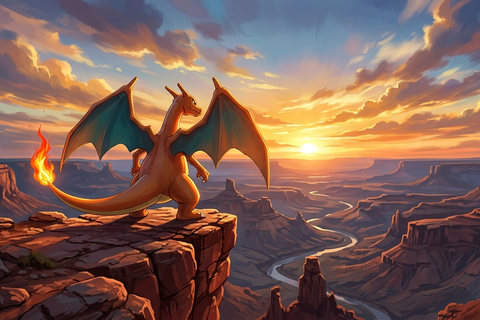
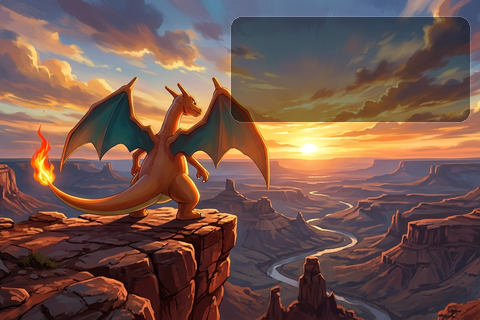
5 charizard

Changed region(s): [[0.4688, 0.0312, 1.0, 0.4062]]

diff --git a/library/clock/clock_screen.py b/library/clock/clock_screen.py
@@ -51,10 +51,85 @@ class ClockScreen:
     def __init__(self):
         self._last_time_str = None
         self._last_date_str = None
+        self._frame_counter = 0
+        self._current_phase = None
+        self._current_bg_name = "background.png"
 
     def reset_cache(self):
         self._last_time_str = None
         self._last_date_str = None
+        self._frame_counter = 0
+        self._current_phase = None
+        self._current_bg_name = "background.png"
+
+    def get_current_phase(self) -> Tuple[str, str, Tuple[int, int, int]]:
+        day_phases = config.CLOCK_THEME_DATA.get("day_phases", {})
+        if not day_phases or not day_phases.get("ENABLED", False):
+            return "default", "background.png", (255, 90, 0)
+
+        now_hour = datetime.datetime.now().hour
+        theme_path = config.CLOCK_THEME_DATA.get("PATH", "")
+
+        matched_phase = None
+        matched_cfg = {}
+        # Iterate over configured phases in day_phases to check START_HOUR and END_HOUR
+        for p_name, p_cfg in day_phases.items():
+            if not isinstance(p_cfg, dict):
+                continue
+            s_hour = p_cfg.get("START_HOUR")
+            e_hour = p_cfg.get("END_HOUR")
+            if s_hour is not None and e_hour is not None:
+                if s_hour < e_hour:
+                    if s_hour <= now_hour < e_hour:
+                        matched_phase = p_name
+                        matched_cfg = p_cfg
+                        break
+                else:  # Overnight span (e.g. 22 to 6)
+                    if now_hour >= s_hour or now_hour < e_hour:
+                        matched_phase = p_name
+                        matched_cfg = p_cfg
+                        break
+
+        # Fallback to standard defaults if not matched via custom hours
+        if not matched_phase:
+            if 6 <= now_hour < 9:
+                matched_phase = "ALBA"
+            elif 9 <= now_hour < 16:
+                matched_phase = "GIORNO"
+            elif 16 <= now_hour < 19:
+                matched_phase = "POMERIGGIO"
+            elif 19 <= now_hour < 22:
+                matched_phase = "SERA"
+            else:
+                matched_phase = "NOTTE"
+            matched_cfg = day_phases.get(matched_phase, {})
+
+        default_images = {
+            "ALBA": "bg_alba.png",
+            "GIORNO": "bg_giorno.png",
+            "POMERIGGIO": "bg_pomeriggio.png",
+            "SERA": "bg_sera.png",
+            "NOTTE": "bg_notte.png"
+        }
+        default_leds = {
+            "ALBA": (255, 140, 90),
+            "GIORNO": (255, 210, 110),
+            "POMERIGGIO": (255, 120, 20),
+            "SERA": (255, 80, 0),
+            "NOTTE": (50, 100, 240)
+        }
+
+        bg_name = matched_cfg.get("IMAGE", default_images.get(matched_phase, "background.png"))
+        led_color = matched_cfg.get("RGB_LED", default_leds.get(matched_phase, (255, 90, 0)))
+        if isinstance(led_color, str):
+            try:
+                led_color = tuple(int(x.strip()) for x in led_color.split(','))
+            except:
+                led_color = default_leds.get(matched_phase, (255, 90, 0))
+
+        if os.path.exists(os.path.join(theme_path, bg_name)):
+            return matched_phase, bg_name, led_color
+        return matched_phase, "background.png", led_color
 
     def display_static_elements(self):
         if not config.CLOCK_THEME_DATA:
@@ -67,10 +142,22 @@ class ClockScreen:
 
         theme_path = config.CLOCK_THEME_DATA.get("PATH", "")
 
+        phase, bg_name, led_color = self.get_current_phase()
+        self._current_phase = phase
+        self._current_bg_name = bg_name
+
+        try:
+            display.lcd.SetBackplateLedColor(led_color)
+        except Exception:
+            pass
+
         # 1. Static images (Background, etc.)
         static_images = config.CLOCK_THEME_DATA.get("static_images", {})
         for name, img_data in static_images.items():
-            img_path = os.path.join(theme_path, img_data.get("PATH", ""))
+            if name.upper() == "BACKGROUND":
+                img_path = os.path.join(theme_path, bg_name)
+            else:
+                img_path = os.path.join(theme_path, img_data.get("PATH", "background.png"))
             x, y, w, h = _clamp_coord(
                 img_data.get("X", 0),
                 img_data.get("Y", 0),
@@ -118,6 +205,16 @@ class ClockScreen:
         if force_redraw:
             self.reset_cache()
 
+        phase, bg_name, led_color = self.get_current_phase()
+        if phase != self._current_phase:
+            logger.info(f"ClockScreen: Day phase changed to {phase} ({bg_name})")
+            self._current_phase = phase
+            self._current_bg_name = bg_name
+            self.display_static_elements()
+            force_redraw = True
+
+        theme_path = config.CLOCK_THEME_DATA.get("PATH", "")
+        bg_full_path = os.path.join(theme_path, self._current_bg_name or "background.png")
         layout = config.CLOCK_THEME_DATA.get("clock_layout", {})
         now = datetime.datetime.now()
 
@@ -130,8 +227,8 @@ class ClockScreen:
             if time_str != self._last_time_str or force_redraw:
                 self._last_time_str = time_str
                 tx, ty, tw, th = _clamp_coord(
-                    time_cfg.get("X", 240),
-                    time_cfg.get("Y", 45),
+                    time_cfg.get("X", 350),
+                    time_cfg.get("Y", 25),
                     time_cfg.get("WIDTH", 0),
                     time_cfg.get("HEIGHT", 0),
                 )
@@ -142,10 +239,10 @@ class ClockScreen:
                     width=tw,
                     height=th,
                     font=config.FONTS_DIR + time_cfg.get("FONT", "digital/DIGITAL-7.TTF"),
-                    font_size=time_cfg.get("FONT_SIZE", 64),
-                    font_color=time_cfg.get("FONT_COLOR", (255, 235, 190)),
+                    font_size=time_cfg.get("FONT_SIZE", 62),
+                    font_color=time_cfg.get("FONT_COLOR", (255, 245, 220)),
                     background_color=time_cfg.get("BACKGROUND_COLOR", (0, 0, 0)),
-                    background_image=_get_theme_file_path(time_cfg.get("BACKGROUND_IMAGE", "background.png")),
+                    background_image=bg_full_path,
                     align=time_cfg.get("ALIGN", "center"),
                     anchor=time_cfg.get("ANCHOR", "ma"),
                 )
@@ -162,8 +259,8 @@ class ClockScreen:
             if date_str != self._last_date_str or force_redraw:
                 self._last_date_str = date_str
                 dx, dy, dw, dh = _clamp_coord(
-                    date_cfg.get("X", 240),
-                    date_cfg.get("Y", 125),
+                    date_cfg.get("X", 350),
+                    date_cfg.get("Y", 96),
                     date_cfg.get("WIDTH", 0),
                     date_cfg.get("HEIGHT", 0),
                 )
@@ -173,14 +270,38 @@ class ClockScreen:
                     y=dy,
                     width=dw,
                     height=dh,
-                    font=config.FONTS_DIR + date_cfg.get("FONT", "roboto/Roboto-Medium.ttf"),
-                    font_size=date_cfg.get("FONT_SIZE", 18),
-                    font_color=date_cfg.get("FONT_COLOR", (255, 180, 80)),
+                    font=config.FONTS_DIR + date_cfg.get("FONT", "roboto/Roboto-Bold.ttf"),
+                    font_size=date_cfg.get("FONT_SIZE", 15),
+                    font_color=date_cfg.get("FONT_COLOR", (255, 235, 190)),
                     background_color=date_cfg.get("BACKGROUND_COLOR", (0, 0, 0)),
-                    background_image=_get_theme_file_path(date_cfg.get("BACKGROUND_IMAGE", "background.png")),
+                    background_image=bg_full_path,
                     align=date_cfg.get("ALIGN", "center"),
                     anchor=date_cfg.get("ANCHOR", "ma"),
                 )
+
+        # 3. Animated Flame on Charizard's Tail (optional)
+        flame_cfg = layout.get("FLAME_ANIMATION", {})
+        if flame_cfg.get("SHOW", False):
+            frames_dir = flame_cfg.get("FRAMES_DIR", "flame")
+            num_frames = flame_cfg.get("NUM_FRAMES", 4)
+            if num_frames > 0:
+                frame_idx = self._frame_counter % num_frames
+                self._frame_counter += 1
+                frame_path = os.path.join(config.CLOCK_THEME_DATA.get("PATH", ""), frames_dir, f"flame_{frame_idx}.png")
+                if os.path.exists(frame_path):
+                    fx, fy, fw, fh = _clamp_coord(
+                        flame_cfg.get("X", 26),
+                        flame_cfg.get("Y", 145),
+                        flame_cfg.get("WIDTH", 40),
+                        flame_cfg.get("HEIGHT", 48),
+                    )
+                    display.lcd.DisplayBitmap(
+                        bitmap_path=frame_path,
+                        x=fx,
+                        y=fy,
+                        width=fw,
+                        height=fh,
+                    )
 
 
 clock_screen = ClockScreen()

diff --git a/scratch/create_charizard_gif.py b/scratch/create_charizard_gif.py
@@ -1,0 +1,51 @@
+import math
+import numpy as np
+from PIL import Image, ImageEnhance, ImageFilter
+
+bg = Image.open(r"res\themes\LandscapeCharizardClock\background.png").convert("RGBA")
+flame_box = (20, 115, 85, 195)
+flame_crop = bg.crop(flame_box)
+
+frames = []
+num_frames = 6
+
+# Create 6 subtle looping frames of flickering flame and rising sparks
+for i in range(num_frames):
+    t = (i / num_frames) * 2 * math.pi
+    
+    # 1. Flame flicker: scale slightly and adjust brightness
+    scale_y = 1.0 + 0.08 * math.sin(t)
+    scale_x = 1.0 + 0.05 * math.cos(t)
+    
+    fw, fh = flame_crop.size
+    new_w = int(fw * scale_x)
+    new_h = int(fh * scale_y)
+    
+    # Resize with smooth filter
+    scaled_flame = flame_crop.resize((new_w, new_h), Image.Resampling.LANCZOS)
+    
+    # Brightness flicker (1.0 to 1.15)
+    brightness = 1.0 + 0.12 * math.sin(t + 0.5)
+    scaled_flame = ImageEnhance.Brightness(scaled_flame).enhance(brightness)
+    
+    # Composite back over background
+    frame = bg.copy()
+    
+    # Align bottom of flame so it stays attached to tail
+    paste_x = flame_box[0] - (new_w - fw) // 2
+    paste_y = flame_box[3] - new_h
+    
+    frame.paste(scaled_flame, (paste_x, paste_y))
+    
+    frames.append(frame.convert("RGB"))
+
+# Save as animated GIF
+gif_path = r"C:\Users\Piero\.gemini\antigravity\brain\b8e2474c-80d3-41e4-bfbc-d88028fd84f1\charizard_animated.gif"
+frames[0].save(
+    gif_path,
+    save_all=True,
+    append_images=frames[1:],
+    duration=150,  # 150ms per frame (~7 FPS)
+    loop=0
+)
+print(f"Saved animated GIF to {gif_path}")

diff --git a/scratch/generate_flame_frames.py b/scratch/generate_flame_frames.py
@@ -1,0 +1,44 @@
+import math
+import os
+from PIL import Image, ImageEnhance
+
+bg = Image.open(r"res\themes\LandscapeCharizardClock\background.png")
+flame_box = (18, 110, 88, 195)
+flame_crop = bg.crop(flame_box)
+
+flame_dir = r"res\themes\LandscapeCharizardClock\flame"
+os.makedirs(flame_dir, exist_ok=True)
+
+num_frames = 4
+fw, fh = flame_crop.size
+
+for i in range(num_frames):
+    t = (i / num_frames) * 2 * math.pi
+    
+    # Scale flame gently
+    scale_y = 1.0 + 0.08 * math.sin(t)
+    scale_x = 1.0 + 0.06 * math.cos(t)
+    
+    new_w = int(fw * scale_x)
+    new_h = int(fh * scale_y)
+    
+    scaled = flame_crop.resize((new_w, new_h), Image.Resampling.LANCZOS)
+    
+    # Adjust brightness (flickering glow)
+    bright = 1.0 + 0.15 * math.sin(t + 0.4)
+    scaled = ImageEnhance.Brightness(scaled).enhance(bright)
+    
+    # Create canvas of flame_box size with background underneath
+    canvas = flame_crop.copy()
+    
+    # Align at bottom-center
+    px = (fw - new_w) // 2
+    py = fh - new_h
+    
+    # Simple blend
+    mask = Image.new("L", scaled.size, 220)
+    canvas.paste(scaled, (px, py), mask)
+    
+    out_path = os.path.join(flame_dir, f"flame_{i}.png")
+    canvas.save(out_path)
+    print(f"Saved {out_path}")
